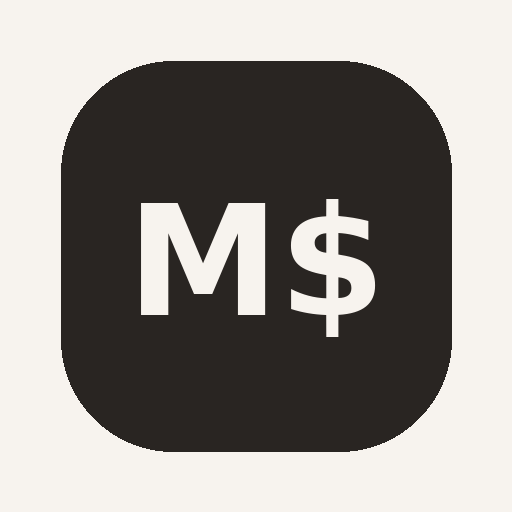
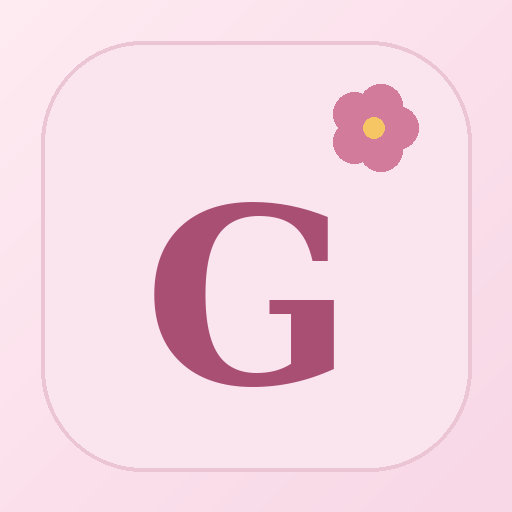
Add files via upload

diff --git a/index-app.html b/index-app.html
@@ -1,0 +1,89 @@
+<!doctype html>
+<html lang="es">
+<head>
+<meta charset="utf-8">
+<meta name="viewport" content="width=device-width,initial-scale=1,viewport-fit=cover">
+<meta name="theme-color" content="#f7dfe8">
+<title>Mi Dinero · Gaby</title>
+<link rel="manifest" href="manifest.json">
+<style>
+:root{--bg:#fcf8fa;--card:#fff;--ink:#332b30;--muted:#897b83;--pink:#d77f9d;--rose:#b85f7f;--soft:#f8e5ed;--line:#eee1e6;--green:#4d9270;--red:#c86e78;--gold:#bd914c;--shadow:0 14px 34px rgba(74,40,56,.08)}
+*{box-sizing:border-box}body{margin:0;background:linear-gradient(180deg,#fff,#fcf7f9 45%,#f8eff3);color:var(--ink);font-family:-apple-system,BlinkMacSystemFont,"Segoe UI",sans-serif}.app{max-width:1080px;margin:auto;padding:16px 16px 100px}
+header{display:flex;justify-content:space-between;align-items:center;gap:12px;padding:5px 2px 20px}.brand{display:flex;align-items:center;gap:12px}.logo{width:58px;height:58px;border-radius:21px;background:linear-gradient(145deg,#fff,#f6dce6);border:1px solid #edd2dc;display:grid;place-items:center;position:relative;box-shadow:var(--shadow);overflow:hidden}.logo .g{font-family:Georgia,serif;font-size:28px;font-weight:700;color:#a95375;z-index:2}.logo .flower{position:absolute;font-size:19px;right:7px;top:4px;transform:rotate(-10deg)}.logo .spark{position:absolute;font-size:10px;left:8px;bottom:7px;color:#c7839d}h1{font-family:Georgia,serif;font-size:23px;margin:0}.sub{color:var(--muted);font-size:12px;margin-top:3px}
+button{border:0;border-radius:14px;padding:11px 15px;font-weight:750;cursor:pointer;background:var(--pink);color:#fff}button.secondary{background:#fff;color:var(--rose);border:1px solid var(--line)}
+.grid{display:grid;grid-template-columns:repeat(12,1fr);gap:14px}.card{background:rgba(255,255,255,.94);border:1px solid var(--line);border-radius:22px;padding:18px;box-shadow:var(--shadow)}.hero{grid-column:span 12;background:linear-gradient(135deg,#fff,#fae7ee);padding:24px}.hero h2{margin:0 0 5px;font-family:Georgia,serif;font-size:27px}.hero p{margin:0;color:var(--muted)}
+.stat{grid-column:span 3}.label{color:var(--muted);font-size:12px}.value{font-size:24px;font-weight:850;margin-top:8px}.positive{color:var(--green)}.negative{color:var(--red)}.wide{grid-column:span 8}.side{grid-column:span 4}.full{grid-column:span 12}.section-title{display:flex;justify-content:space-between;align-items:center;gap:8px;margin-bottom:12px}.section-title h3{margin:0;font-size:16px}.pill{padding:5px 9px;border-radius:99px;background:var(--soft);color:var(--rose);font-size:11px;font-weight:750}
+form{display:grid;grid-template-columns:repeat(2,1fr);gap:10px}label{font-size:12px;color:var(--muted);display:block;margin-bottom:5px}input,select{width:100%;padding:12px;border:1px solid var(--line);border-radius:13px;background:#fff;color:var(--ink);font-size:14px}form .fullfield{grid-column:span 2}.actions{display:flex;gap:8px;margin-top:3px}
+.row{display:flex;justify-content:space-between;align-items:center;gap:10px;padding:11px 0;border-bottom:1px solid var(--line)}.row:last-child{border-bottom:0}.small{font-size:12px;color:var(--muted)}.empty{color:var(--muted);text-align:center;padding:18px}
+.tx{display:flex;align-items:center;gap:10px}.txinfo{flex:1}.amount{font-weight:800}.caticon{width:40px;height:40px;border-radius:14px;display:grid;place-items:center;background:#fbf0f4;font-size:21px;flex:none}.income .caticon{background:#edf7f1}.expense .caticon{background:#fff0f1}
+.progress{height:10px;background:#f0e7ea;border-radius:99px;overflow:hidden}.bar{height:100%;background:linear-gradient(90deg,var(--pink),var(--rose));border-radius:99px}
+.debticon{width:38px;height:38px;border-radius:13px;background:#fff5e5;display:grid;place-items:center;font-size:19px;flex:none}
+.category-grid{display:grid;grid-template-columns:repeat(5,1fr);gap:9px;margin-top:4px}.category{border:1px solid var(--line);background:#fff;border-radius:16px;padding:10px 5px;text-align:center;cursor:pointer}.category.selected{border-color:#d98ba6;background:#fff1f5;box-shadow:0 0 0 2px #f6dce6}.category span{display:block;font-size:22px}.category b{font-size:10px;color:var(--muted)}
+nav{position:fixed;bottom:14px;left:50%;transform:translateX(-50%);background:#fff;border:1px solid var(--line);border-radius:20px;padding:7px;display:flex;gap:5px;box-shadow:0 12px 35px rgba(0,0,0,.12);z-index:10}nav button{background:transparent;color:var(--muted);padding:9px 12px}nav button.active{background:var(--soft);color:var(--rose)}
+@media(max-width:760px){.stat{grid-column:span 6}.wide,.side{grid-column:span 12}.category-grid{grid-template-columns:repeat(5,1fr)}.app{padding:12px 12px 95px}}
+@media(max-width:470px){form{grid-template-columns:1fr}form .fullfield{grid-column:span 1}.category-grid{grid-template-columns:repeat(5,1fr);gap:6px}.category{padding:8px 2px}.category b{font-size:9px}.logo{width:52px;height:52px}}
+</style>
+</head>
+<body>
+<div class="app">
+<header>
+<div class="brand"><div class="logo"><span class="g">G</span><span class="flower">🌸</span><span class="spark">✦</span></div><div><h1>Mi Dinero, Gaby</h1><div class="sub">Organiza tu dinero con intención ✨</div></div></div>
+<button class="secondary" onclick="exportData()">Exportar</button>
+</header>
+<main class="grid">
+<section class="card hero"><h2>Hola, Gaby 💗</h2><p id="monthText">Tu resumen financiero.</p></section>
+<div class="card stat"><div class="label">Ingresos</div><div class="value positive" id="income">$0</div></div>
+<div class="card stat"><div class="label">Gastos</div><div class="value negative" id="expense">$0</div></div>
+<div class="card stat"><div class="label">Disponible</div><div class="value" id="available">$0</div></div>
+<div class="card stat"><div class="label">Deuda pendiente</div><div class="value" id="debtTotal">$0</div></div>
+
+<section class="card wide"><div class="section-title"><h3>Movimientos recientes</h3><span class="pill" id="txCount">0</span></div><div id="transactions"></div></section>
+<section class="card side"><div class="section-title"><h3>Meta principal</h3><button onclick="editGoal()">Editar</button></div><div class="small" id="goalName">Fondo de emergencia</div><div style="font-size:24px;font-weight:800;margin:8px 0" id="goalAmount">$0 / $0</div><div class="progress"><div class="bar" id="goalBar" style="width:0%"></div></div><div class="small" id="goalPct" style="margin-top:7px">0%</div></section>
+
+<section class="card wide">
+<div class="section-title"><h3>Agregar movimiento</h3><span class="pill">Rápido</span></div>
+<form onsubmit="addTx(event)">
+<div><label>Tipo</label><select id="type"><option value="income">Ingreso</option><option value="expense">Gasto</option></select></div>
+<div><label>Monto</label><input id="amount" type="number" min="0" step="0.01" required placeholder="0.00"></div>
+<div class="fullfield"><label>Categoría</label><div class="category-grid" id="cats"></div><input id="category" type="hidden" value="Trabajo"></div>
+<div><label>Fecha</label><input id="date" type="date" required></div>
+<div><label>Descripción</label><input id="desc" maxlength="80" placeholder="Ej. gasolina"></div>
+<div class="fullfield actions"><button>Guardar movimiento</button></div>
+</form>
+</section>
+
+<section class="card side"><div class="section-title"><h3>Mis deudas</h3><button onclick="addDebt()">Añadir</button></div><div id="debts"></div></section>
+
+<section class="card full"><div class="section-title"><h3>Tu resumen</h3><span class="pill">Este mes</span></div><div class="row"><span>Porcentaje disponible</span><strong id="saveRule">0%</strong></div><div class="row"><span>Gastos registrados</span><strong id="expenseRule">$0</strong></div><div class="row"><span>Margen disponible</span><strong id="marginRule">$0</strong></div></section>
+</main>
+<nav><button class="active">Inicio</button><button onclick="document.querySelector('form').scrollIntoView({behavior:'smooth'})">＋ Movimiento</button><button onclick="editGoal()">🎯 Meta</button></nav>
+</div>
+<script>
+const KEY="gaby_finanzas_v4";
+const CATS={Trabajo:"💼",Comida:"🍽",Vivienda:"🏠",Transporte:"🚗",Universidad:"🎓",Deudas:"💳",Salud:"🩷",Entretenimiento:"🎀",Ahorro:"🌷",Otros:"✨"};
+let data=JSON.parse(localStorage.getItem(KEY)||"null")||{goal:{name:"Fondo de emergencia",saved:0,target:5000},tx:[],debts:[]};
+const money=n=>new Intl.NumberFormat("en-US",{style:"currency",currency:"USD"}).format(Number(n)||0);
+function save(){localStorage.setItem(KEY,JSON.stringify(data));render()}
+function esc(s){return String(s).replace(/[&<>"']/g,c=>({"&":"&amp;","<":"&lt;",">":"&gt;",'"':"&quot;","'":"&#039;"}[c]))}
+function renderCats(selected){document.getElementById("cats").innerHTML=Object.entries(CATS).map(([name,icon])=>`<div class="category ${name===(selected||"Trabajo")?"selected":""}" onclick="pickCat('${name}')"><span>${icon}</span><b>${name}</b></div>`).join("")}
+function pickCat(n){document.getElementById("category").value=n;renderCats(n)}
+function render(){
+const now=new Date(),m=now.toISOString().slice(0,7),tx=data.tx.filter(x=>x.date?.slice(0,7)===m),income=tx.filter(x=>x.type==="income").reduce((s,x)=>s+x.amount,0),expense=tx.filter(x=>x.type==="expense").reduce((s,x)=>s+x.amount,0),debt=data.debts.reduce((s,d)=>s+d.balance,0);
+document.getElementById("income").textContent=money(income);document.getElementById("expense").textContent=money(expense);document.getElementById("available").textContent=money(income-expense);document.getElementById("debtTotal").textContent=money(debt);
+document.getElementById("monthText").textContent=now.toLocaleDateString("es-ES",{month:"long",year:"numeric"}).replace(/^./,c=>c.toUpperCase());
+document.getElementById("txCount").textContent=`${data.tx.length} movimiento${data.tx.length===1?"":"s"}`;
+const sorted=[...data.tx].sort((a,b)=>b.date.localeCompare(a.date)).slice(0,8);
+document.getElementById("transactions").innerHTML=sorted.length?sorted.map(x=>`<div class="row ${x.type}"><div class="tx"><div class="caticon">${CATS[x.category]||"✨"}</div><div class="txinfo"><strong>${esc(x.desc||x.category)}</strong><div class="small">${esc(x.category)} · ${x.date}</div></div></div><div class="amount">${x.type==="income"?"+":"-"}${money(x.amount)}</div></div>`).join(""):'<div class="empty">Todavía no tienes movimientos.</div>';
+document.getElementById("goalName").textContent=data.goal.name;document.getElementById("goalAmount").textContent=`${money(data.goal.saved)} / ${money(data.goal.target)}`;let pct=Math.min(100,data.goal.saved/Math.max(1,data.goal.target)*100);document.getElementById("goalBar").style.width=pct+"%";document.getElementById("goalPct").textContent=Math.round(pct)+"% completado";
+document.getElementById("debts").innerHTML=data.debts.length?data.debts.map((d,i)=>`<div class="row"><div class="tx"><div class="debticon">💳</div><div><strong>${esc(d.name)}</strong><div class="small">${money(d.balance)} pendientes</div></div></div><button class="secondary" onclick="payDebt(${i})">Pagar</button></div>`).join(""):'<div class="empty">No has añadido deudas.</div>';
+document.getElementById("saveRule").textContent=income?Math.max(0,Math.round((income-expense)/income*100))+"%":"0%";document.getElementById("expenseRule").textContent=money(expense);document.getElementById("marginRule").textContent=money(income-expense);
+renderCats(document.getElementById("category").value||"Trabajo");
+}
+function addTx(e){e.preventDefault();data.tx.push({type:document.getElementById("type").value,amount:Number(document.getElementById("amount").value),category:document.getElementById("category").value,date:document.getElementById("date").value,desc:document.getElementById("desc").value.trim()});e.target.reset();document.getElementById("category").value="Trabajo";document.getElementById("date").value=new Date().toISOString().slice(0,10);save()}
+function addDebt(){let name=prompt("Nombre de la deuda:");if(!name)return;let balance=Number(prompt("Saldo pendiente:")||0);if(balance>0){data.debts.push({name,balance});save()}}
+function payDebt(i){let d=data.debts[i],p=Number(prompt(`¿Cuánto quieres registrar como pago de ${d.name}?`)||0);if(p>0){d.balance=Math.max(0,d.balance-p);if(d.balance===0&&confirm("La deuda quedó en $0. ¿Eliminarla de la lista?"))data.debts.splice(i,1);save()}}
+function editGoal(){let n=prompt("Nombre de tu meta:",data.goal.name);if(n!==null)data.goal.name=n||data.goal.name;let t=Number(prompt("Meta total ($):",data.goal.target)||data.goal.target),s=Number(prompt("Ahorrado actualmente ($):",data.goal.saved)||data.goal.saved);data.goal.target=t>0?t:data.goal.target;data.goal.saved=s>=0?s:data.goal.saved;save()}
+function exportData(){let blob=new Blob([JSON.stringify(data,null,2)],{type:"application/json"}),a=document.createElement("a");a.href=URL.createObjectURL(blob);a.download="mi-dinero-gaby-backup.json";a.click();URL.revokeObjectURL(a.href)}
+document.getElementById("date").value=new Date().toISOString().slice(0,10);render();
+</script>
+</body></html>

diff --git a/index.html b/index.html
@@ -1,144 +1,9 @@
-<!doctype html>
-<html lang="es">
-<head>
-<meta charset="utf-8">
-<meta name="viewport" content="width=device-width,initial-scale=1,viewport-fit=cover">
-<meta name="theme-color" content="#f8e8ee">
-<title>Mi Dinero · Gaby</title>
-<link rel="manifest" href="manifest.json">
-<style>
-:root{
- --bg:#fbf7f8; --card:#fff; --ink:#302a2d; --muted:#81757b;
- --pink:#d987a4; --rose:#b85f7f; --soft:#f5e3ea; --line:#eee3e7;
- --green:#4d9270; --red:#c96d72; --gold:#b28a49; --shadow:0 12px 32px rgba(70,35,50,.08);
-}
-*{box-sizing:border-box} body{margin:0;background:linear-gradient(180deg,#fff 0,#fbf7f8 35%,#f8f1f4 100%);color:var(--ink);font-family:-apple-system,BlinkMacSystemFont,"Segoe UI",sans-serif}
-.app{max-width:1050px;margin:auto;padding:18px 18px 90px}
-header{display:flex;justify-content:space-between;align-items:center;gap:12px;padding:8px 2px 20px}
-.brand{display:flex;align-items:center;gap:12px}.logo{width:50px;height:50px;border-radius:18px;background:var(--soft);display:grid;place-items:center;font-size:27px;box-shadow:var(--shadow)}
-h1{font-size:22px;margin:0}.sub{color:var(--muted);font-size:13px;margin-top:3px}
-button{border:0;border-radius:14px;padding:11px 15px;font-weight:700;cursor:pointer;background:var(--pink);color:#fff}
-button.secondary{background:#fff;color:var(--rose);border:1px solid var(--line)}
-.grid{display:grid;grid-template-columns:repeat(12,1fr);gap:14px}.card{background:rgba(255,255,255,.92);border:1px solid var(--line);border-radius:22px;padding:18px;box-shadow:var(--shadow)}
-.hero{grid-column:span 12;background:linear-gradient(135deg,#fff,#f9eaf0);padding:24px}
-.hero h2{margin:0 0 5px;font-size:25px}.hero p{margin:0;color:var(--muted)}
-.stat{grid-column:span 3}.stat .label{color:var(--muted);font-size:12px}.stat .value{font-size:24px;font-weight:800;margin-top:8px}.positive{color:var(--green)}.negative{color:var(--red)}
-.wide{grid-column:span 8}.side{grid-column:span 4}.full{grid-column:span 12}
-.section-title{display:flex;justify-content:space-between;align-items:center;margin-bottom:12px}.section-title h3{margin:0;font-size:16px}
-.progress{height:10px;background:#f0e7ea;border-radius:99px;overflow:hidden}.bar{height:100%;background:linear-gradient(90deg,var(--pink),var(--rose));border-radius:99px}
-.row{display:flex;justify-content:space-between;gap:10px;padding:11px 0;border-bottom:1px solid var(--line)}.row:last-child{border-bottom:0}
-.small{font-size:12px;color:var(--muted)}.pill{display:inline-block;padding:5px 9px;border-radius:99px;background:var(--soft);color:var(--rose);font-size:11px;font-weight:700}
-form{display:grid;grid-template-columns:repeat(2,1fr);gap:10px}label{font-size:12px;color:var(--muted);display:block;margin-bottom:5px}input,select{width:100%;padding:12px;border:1px solid var(--line);border-radius:13px;background:#fff;color:var(--ink);font-size:14px}form .fullfield{grid-column:span 2}
-.actions{display:flex;gap:8px;flex-wrap:wrap;margin-top:10px}
-.empty{color:var(--muted);text-align:center;padding:18px}.tx{display:flex;align-items:center;gap:10px}.dot{width:10px;height:10px;border-radius:50%;background:var(--pink)}.txinfo{flex:1}.amount{font-weight:800}.income .dot{background:var(--green)}.expense .dot{background:var(--red)}
-nav{position:fixed;bottom:14px;left:50%;transform:translateX(-50%);background:#fff;border:1px solid var(--line);border-radius:20px;padding:7px;display:flex;gap:5px;box-shadow:0 12px 35px rgba(0,0,0,.12);z-index:10}nav button{background:transparent;color:var(--muted);padding:9px 12px}nav button.active{background:var(--soft);color:var(--rose)}
-@media(max-width:760px){.stat{grid-column:span 6}.wide,.side{grid-column:span 12}.app{padding:12px 12px 90px}.hero{padding:20px}.value{font-size:21px}}
-@media(max-width:470px){form{grid-template-columns:1fr}form .fullfield{grid-column:span 1}header{align-items:flex-start}.logo{width:44px;height:44px}}
-</style>
-</head>
-<body>
-<div class="app">
-<header>
-  <div class="brand"><div class="logo">🌷</div><div><h1>Mi Dinero, Gaby</h1><div class="sub">Tu dinero, tus metas, tu tranquilidad.</div></div></div>
-  <button class="secondary" onclick="exportData()">Exportar</button>
-</header>
-
-<main class="grid">
-<section class="card hero">
-  <h2>Hola, Gaby 💗</h2>
-  <p id="monthText">Tu resumen financiero de este mes.</p>
-</section>
-
-<div class="card stat"><div class="label">Ingresos</div><div class="value positive" id="income">$0</div></div>
-<div class="card stat"><div class="label">Gastos</div><div class="value negative" id="expense">$0</div></div>
-<div class="card stat"><div class="label">Disponible</div><div class="value" id="available">$0</div></div>
-<div class="card stat"><div class="label">Deuda pendiente</div><div class="value" id="debtTotal">$0</div></div>
-
-<section class="card wide">
- <div class="section-title"><h3>Movimientos recientes</h3><span class="pill" id="txCount">0 movimientos</span></div>
- <div id="transactions"></div>
-</section>
-
-<section class="card side">
- <div class="section-title"><h3>Meta principal</h3><button onclick="editGoal()">Editar</button></div>
- <div class="small" id="goalName">Fondo de emergencia</div>
- <div style="font-size:24px;font-weight:800;margin:8px 0" id="goalAmount">$0 / $0</div>
- <div class="progress"><div class="bar" id="goalBar" style="width:0%"></div></div>
- <div class="small" id="goalPct" style="margin-top:7px">0%</div>
-</section>
-
-<section class="card wide">
- <div class="section-title"><h3>Agregar movimiento</h3></div>
- <form onsubmit="addTx(event)">
-   <div><label>Tipo</label><select id="type"><option value="income">Ingreso</option><option value="expense">Gasto</option></select></div>
-   <div><label>Monto</label><input id="amount" type="number" min="0" step="0.01" required placeholder="0.00"></div>
-   <div><label>Categoría</label><select id="category"><option>Trabajo</option><option>Comida</option><option>Vivienda</option><option>Transporte</option><option>Universidad</option><option>Deudas</option><option>Salud</option><option>Entretenimiento</option><option>Ahorro</option><option>Otros</option></select></div>
-   <div><label>Fecha</label><input id="date" type="date" required></div>
-   <div class="fullfield"><label>Descripción</label><input id="desc" maxlength="80" placeholder="Ej. pago de universidad"></div>
-   <div class="fullfield actions"><button>Guardar movimiento</button></div>
- </form>
-</section>
-
-<section class="card side">
- <div class="section-title"><h3>Mis deudas</h3><button onclick="addDebt()">Añadir</button></div>
- <div id="debts"></div>
-</section>
-
-<section class="card full">
- <div class="section-title"><h3>Regla del mes</h3><span class="pill">Personal</span></div>
- <div class="row"><span>Objetivo de ahorro</span><strong id="saveRule">0%</strong></div>
- <div class="row"><span>Gastos registrados</span><strong id="expenseRule">$0</strong></div>
- <div class="row"><span>Margen disponible</span><strong id="marginRule">$0</strong></div>
-</section>
-</main>
-
-<nav>
-<button class="active">Inicio</button>
-<button onclick="document.querySelector('.wide form').scrollIntoView({behavior:'smooth'})">+ Movimiento</button>
-<button onclick="editGoal()">Meta</button>
-</nav>
-</div>
-
-<script>
-const KEY="gaby_finanzas_v3";
-let data=JSON.parse(localStorage.getItem(KEY)||'null')||{
- goal:{name:"Fondo de emergencia",saved:0,target:5000},
- tx:[],
- debts:[]
-};
-const money=n=>new Intl.NumberFormat('en-US',{style:'currency',currency:'USD'}).format(Number(n)||0);
-function save(){localStorage.setItem(KEY,JSON.stringify(data));render()}
-function render(){
- const now=new Date(), m=now.toISOString().slice(0,7);
- document.getElementById('date').value ||= now.toISOString().slice(0,10);
- const tx=data.tx.filter(x=>x.date?.slice(0,7)===m);
- const income=tx.filter(x=>x.type==='income').reduce((s,x)=>s+x.amount,0);
- const expense=tx.filter(x=>x.type==='expense').reduce((s,x)=>s+x.amount,0);
- const debt=data.debts.reduce((s,d)=>s+d.balance,0);
- document.getElementById('income').textContent=money(income);
- document.getElementById('expense').textContent=money(expense);
- document.getElementById('available').textContent=money(income-expense);
- document.getElementById('debtTotal').textContent=money(debt);
- document.getElementById('monthText').textContent=now.toLocaleDateString('es-ES',{month:'long',year:'numeric'}).replace(/^./,c=>c.toUpperCase());
- document.getElementById('txCount').textContent=`${data.tx.length} movimiento${data.tx.length===1?'':'s'}`;
- const sorted=[...data.tx].sort((a,b)=>b.date.localeCompare(a.date)).slice(0,8);
- document.getElementById('transactions').innerHTML=sorted.length?sorted.map(x=>`<div class="row ${x.type}"><div class="tx"><span class="dot"></span><div class="txinfo"><strong>${esc(x.desc||x.category)}</strong><div class="small">${esc(x.category)} · ${x.date}</div></div></div><div class="amount">${x.type==='income'?'+':'-'}${money(x.amount)}</div></div>`).join(''):'<div class="empty">Todavía no tienes movimientos.</div>';
- document.getElementById('goalName').textContent=data.goal.name;
- document.getElementById('goalAmount').textContent=`${money(data.goal.saved)} / ${money(data.goal.target)}`;
- const pct=Math.min(100,(data.goal.saved/Math.max(1,data.goal.target))*100);
- document.getElementById('goalBar').style.width=pct+'%';document.getElementById('goalPct').textContent=Math.round(pct)+'% completado';
- document.getElementById('debts').innerHTML=data.debts.length?data.debts.map((d,i)=>`<div class="row"><div><strong>${esc(d.name)}</strong><div class="small">${money(d.balance)} pendientes</div></div><button class="secondary" onclick="payDebt(${i})">Pagar</button></div>`).join(''):'<div class="empty">No has añadido deudas.</div>';
- document.getElementById('saveRule').textContent=income?Math.max(0,Math.round(((income-expense)/income)*100))+'%':'0%';
- document.getElementById('expenseRule').textContent=money(expense);
- document.getElementById('marginRule').textContent=money(income-expense);
-}
-function esc(s){return String(s).replace(/[&<>"']/g,c=>({'&':'&amp;','<':'&lt;','>':'&gt;','"':'&quot;',"'":'&#039;'}[c]))}
-function addTx(e){e.preventDefault();data.tx.push({type:document.getElementById('type').value,amount:Number(document.getElementById('amount').value),category:document.getElementById('category').value,date:document.getElementById('date').value,desc:document.getElementById('desc').value.trim()});e.target.reset();document.getElementById('date').value=new Date().toISOString().slice(0,10);save()}
-function addDebt(){const name=prompt("Nombre de la deuda:");if(!name)return;const balance=Number(prompt("Saldo pendiente:")||0);if(balance>0){data.debts.push({name,balance});save()}}
-function payDebt(i){const d=data.debts[i];const p=Number(prompt(`¿Cuánto quieres registrar como pago de ${d.name}?`)||0);if(p>0){d.balance=Math.max(0,d.balance-p);if(d.balance===0&&confirm("Esta deuda quedó en $0. ¿Eliminarla de la lista?"))data.debts.splice(i,1);save()}}
-function editGoal(){const n=prompt("Nombre de tu meta:",data.goal.name);if(n!==null)data.goal.name=n||data.goal.name;const t=Number(prompt("Meta total ($):",data.goal.target)||data.goal.target);const s=Number(prompt("Ahorrado actualmente ($):",data.goal.saved)||data.goal.saved);data.goal.target=t>0?t:data.goal.target;data.goal.saved=s>=0?s:data.goal.saved;save()}
-function exportData(){const blob=new Blob([JSON.stringify(data,null,2)],{type:'application/json'});const a=document.createElement('a');a.href=URL.createObjectURL(blob);a.download='mi-dinero-gaby-backup.json';a.click();URL.revokeObjectURL(a.href)}
-render();
-</script>
-</body>
-</html>
+<!doctype html><html lang="es"><head>
+<meta charset="utf-8"><meta name="viewport" content="width=device-width,initial-scale=1,viewport-fit=cover">
+<meta name="theme-color" content="#f7dfe8"><meta name="apple-mobile-web-app-capable" content="yes">
+<meta name="apple-mobile-web-app-status-bar-style" content="default"><meta name="apple-mobile-web-app-title" content="Mi Dinero">
+<link rel="apple-touch-icon" sizes="180x180" href="apple-touch-icon.png">
+<link rel="icon" type="image/png" sizes="512x512" href="icon-512.png"><link rel="manifest" href="manifest.json">
+<title>Mi Dinero · Gaby</title></head><body>
+<script>location.href="index-app.html";</script>
+<p>Abriendo Mi Dinero…</p></body></html>

diff --git a/README.md b/README.md
@@ -1,23 +1,4 @@
-# Mi Dinero · Gaby
-
-Versión reconstruida y mejorada de la app financiera personal.
-
-## Incluye
-- Dashboard mensual
-- Ingresos y gastos
-- Movimientos con categorías
-- Deudas y pagos
-- Meta de ahorro
-- Margen disponible
-- Persistencia local en el dispositivo
-- Exportación de respaldo JSON
-- Diseño responsive para teléfono y computadora
-- Estética femenina, elegante y rosa/blush
-
-## Publicar gratis con GitHub Pages
-1. Crea un repositorio público en GitHub.
-2. Sube `index.html` y `manifest.json`.
-3. En Settings → Pages, selecciona Deploy from branch → main → /(root).
-4. GitHub te dará la dirección pública.
-
-Los datos financieros se guardan en el navegador mediante localStorage. Esta versión no envía los datos a un servidor.
+# Mi Dinero · Gaby — FINAL
+Incluye el icono real para pantalla de inicio de iPhone (`apple-touch-icon.png`) y los iconos del manifest.
+Sube TODOS los archivos de esta carpeta al mismo repositorio de GitHub Pages, reemplazando los anteriores.
+Después abre la página en Safari → Compartir → Añadir a pantalla de inicio.
